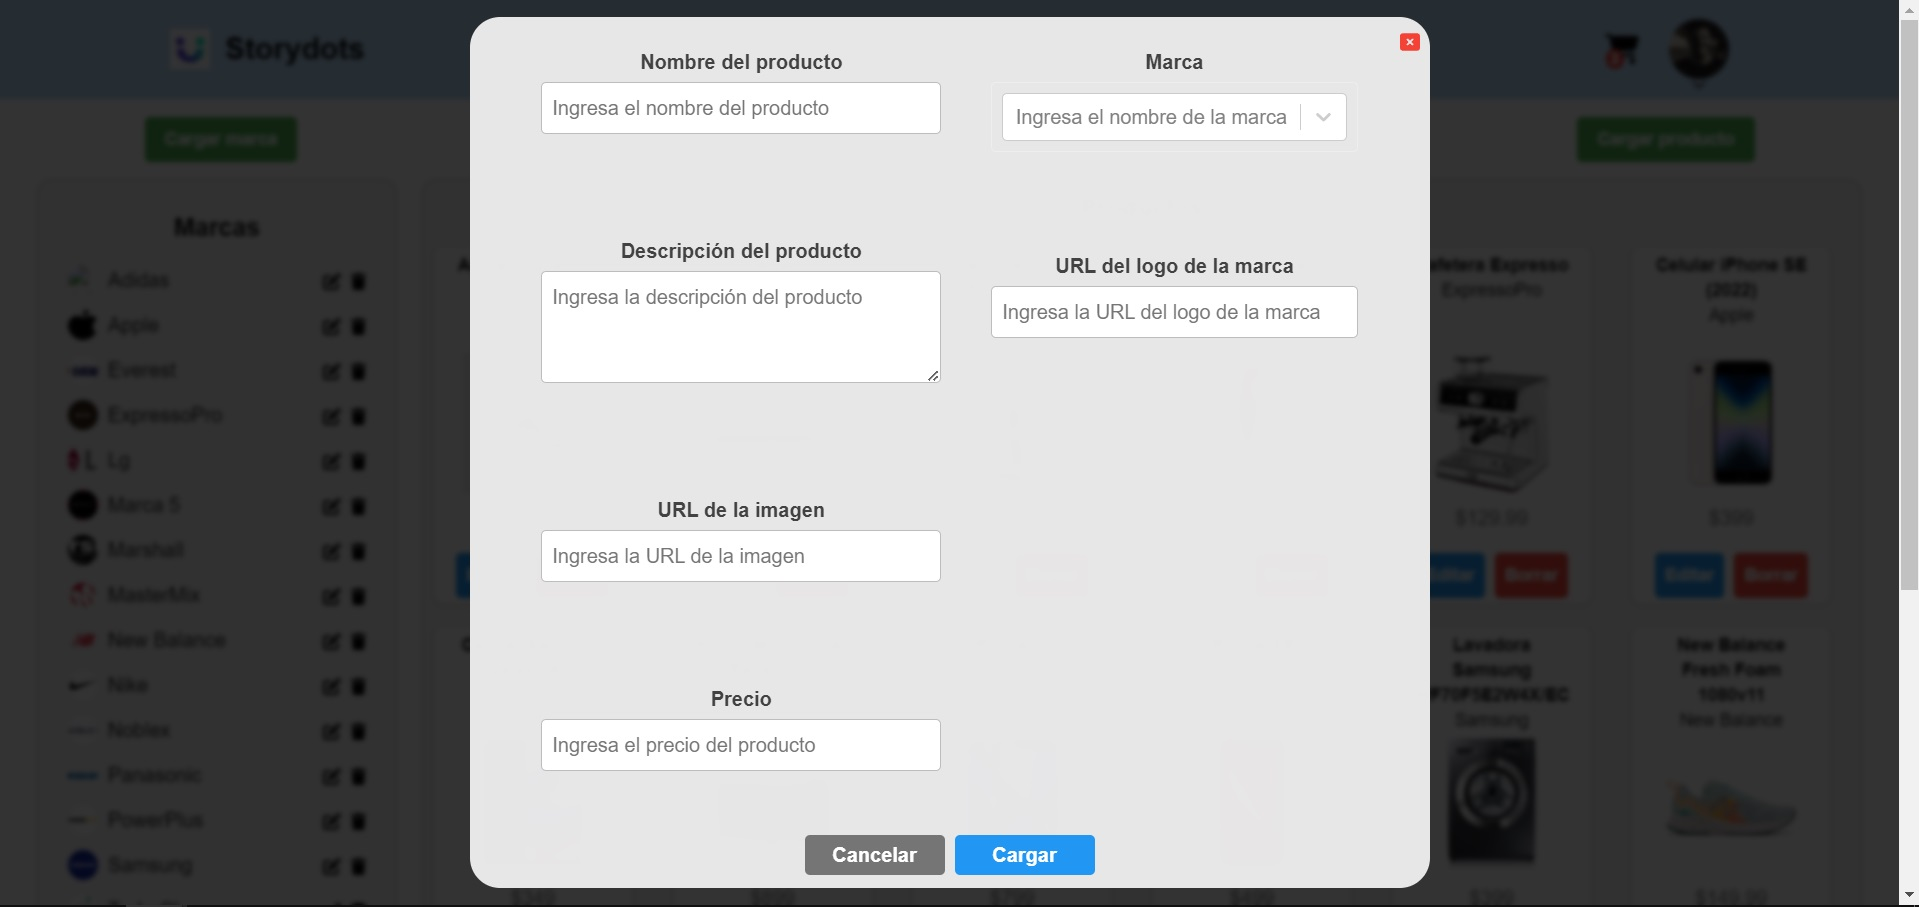
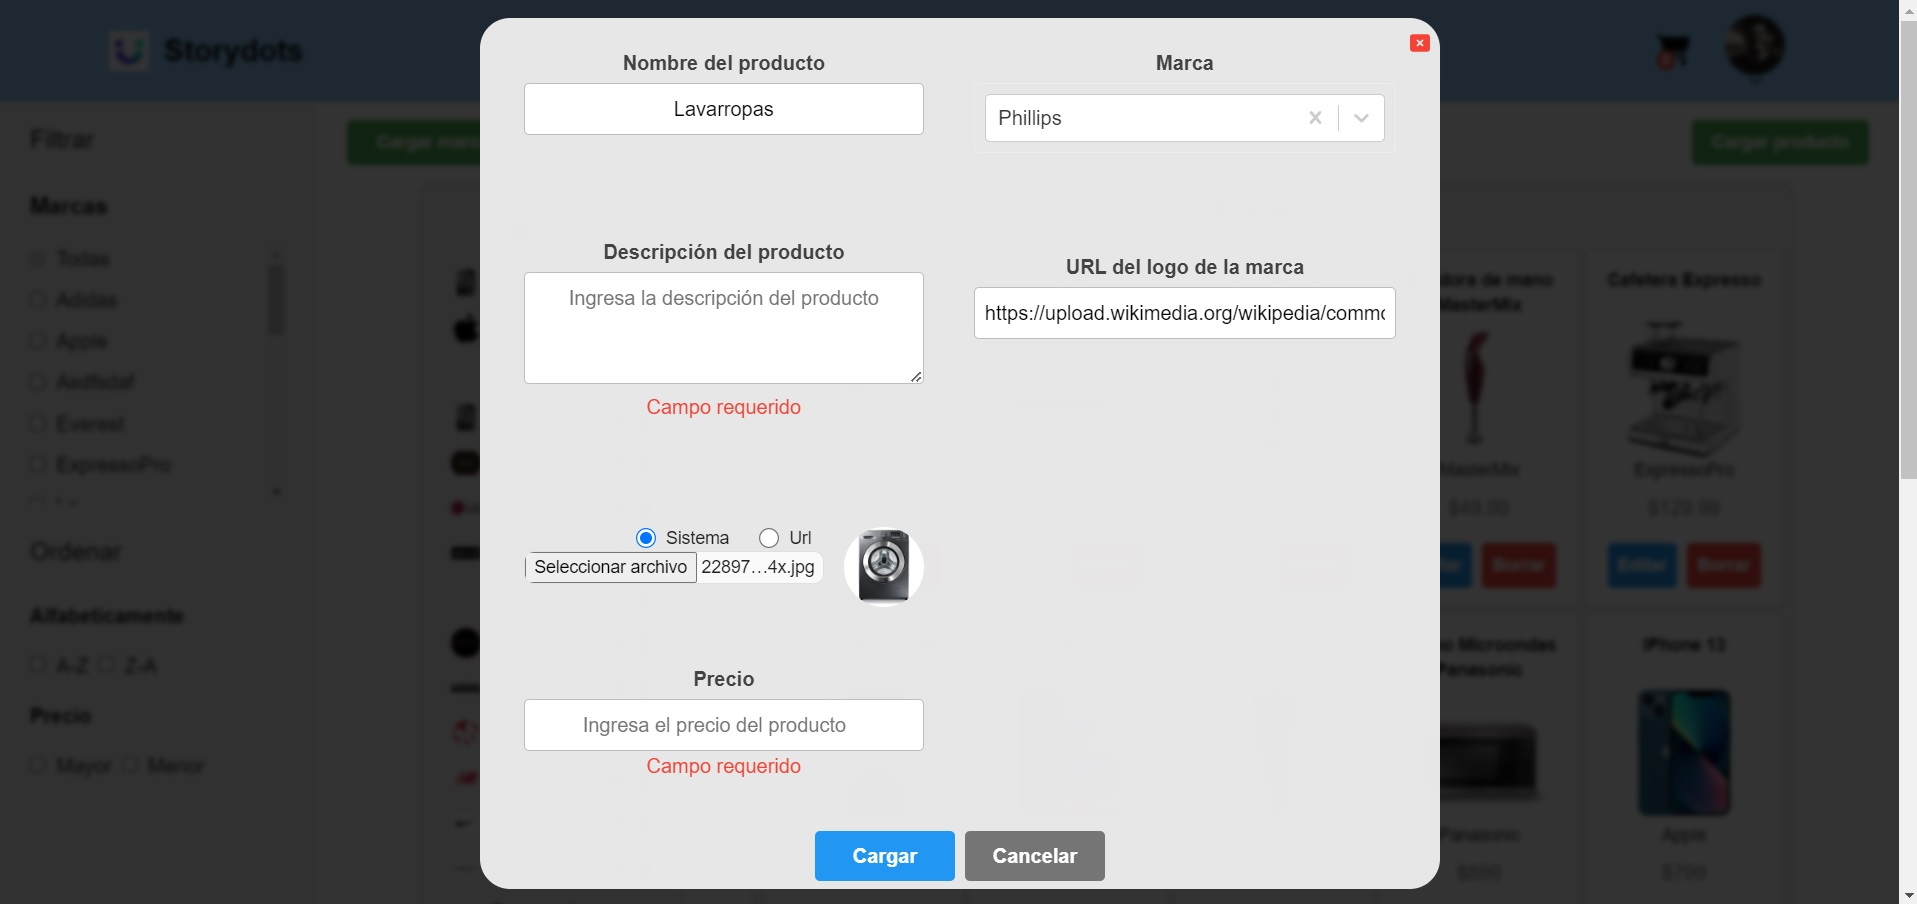
screen readme

diff --git a/client/src/pages/Admin/components/ToggleUrlSystemImage.jsx b/client/src/pages/Admin/components/ToggleUrlSystemImage.jsx
@@ -89,7 +89,7 @@ export default function ToggleUrlSystemImage({
       ) : (
         <div className="">
           <input
-            className="block w-full mb-5 text-sm text-gray-900 border border-gray-300 rounded-lg cursor-pointer bg-gray-50 dark:text-gray-400 focus:outline-none dark:bg-gray-700 dark:border-gray-600 dark:placeholder-gray-400"
+            className="block md:w-60 mb-5 text-sm text-gray-900 border border-gray-300 rounded-lg cursor-pointer bg-gray-50 dark:text-gray-400 focus:outline-none dark:bg-gray-700 dark:border-gray-600 dark:placeholder-gray-400"
             id="default_size"
             type="file"
             onChange={uploadImage}
